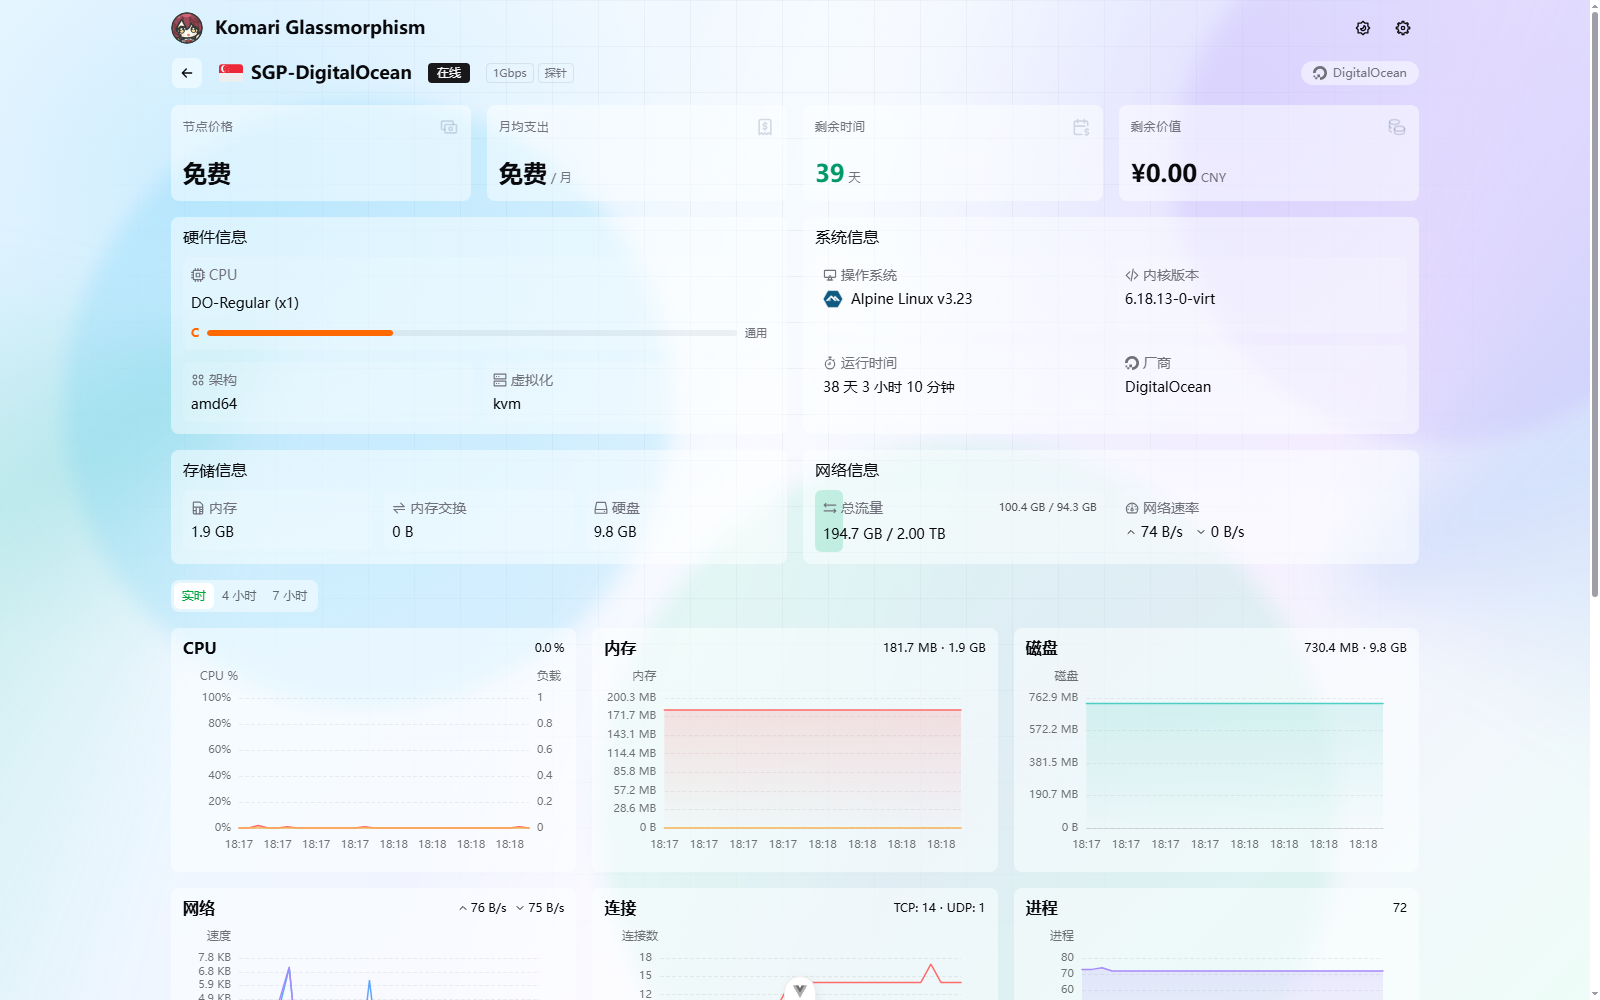
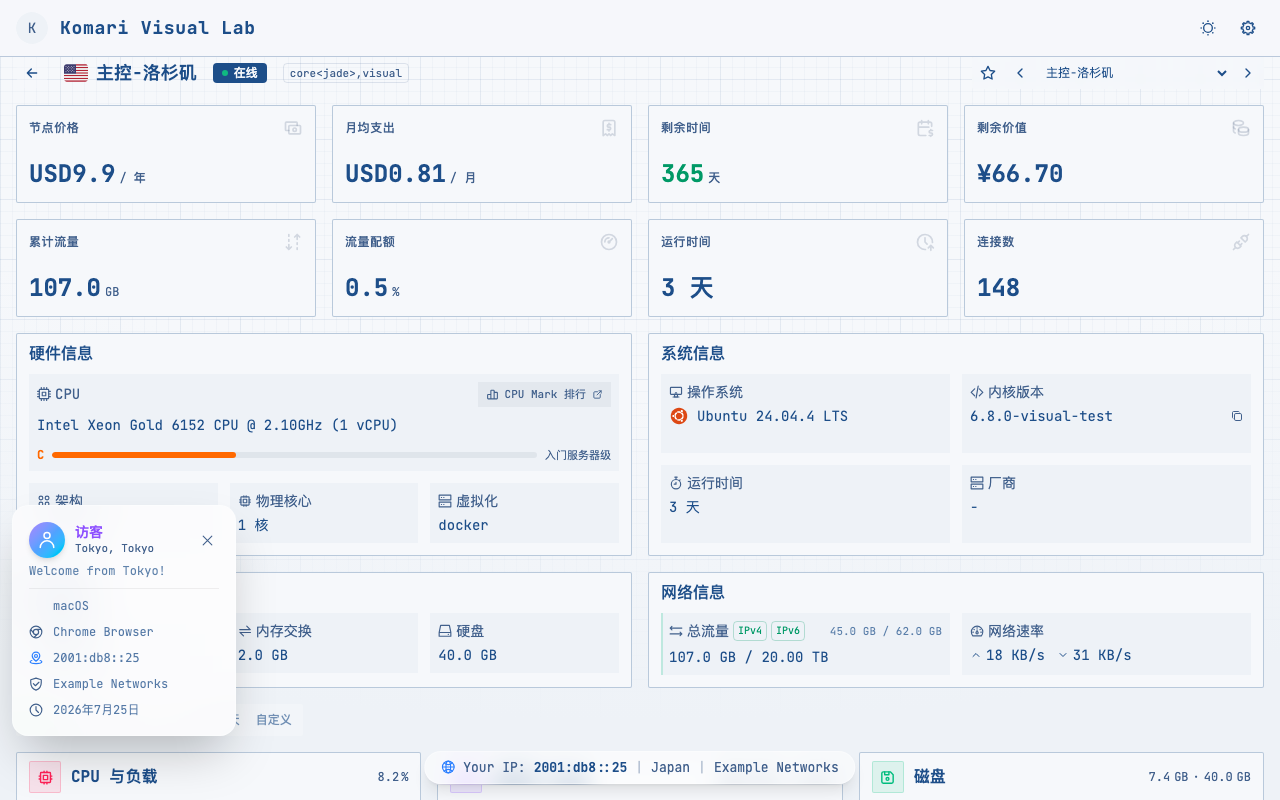
chore: 主题设置文案校准、清理月成本快捷控制死链、预览图更新为 blueprint 实拍

diff --git a/src/views/HomeView.vue b/src/views/HomeView.vue
@@ -25,7 +25,6 @@ import {
   isHighLoadNode,
 } from '@/utils/nodeMetricsHelper'
 import { isNodeMatchSearch } from '@/utils/nodeSearch'
-import { isFreeNode } from '@/utils/tagHelper'
 
 interface QuickControlOption {
   key: HomeQuickControlKey
@@ -95,7 +94,6 @@ const homeToolPermissionMap: Record<PrivateHomeToolKey, PermissionKey> = {
 
 const quickControlDefinitions: Record<HomeQuickControlKey, QuickControlOption> = {
   favorite: { key: 'favorite', label: '收藏', icon: 'tabler:star' },
-  monthlyCost: { key: 'monthlyCost', label: '月成本', icon: 'tabler:calendar-dollar' },
   totalTraffic: { key: 'totalTraffic', label: '总流量', icon: 'tabler:database' },
   upload: { key: 'upload', label: '上行', icon: 'tabler:chevron-up' },
   download: { key: 'download', label: '下行', icon: 'tabler:chevron-down' },
@@ -133,7 +131,7 @@ const groups = computed(() => [
   ...nodesStore.groups.map(g => ({ tab: g, name: g })),
 ])
 
-const quickControlKeys = computed<HomeQuickControlKey[]>(() => appStore.homeQuickControlOrder.filter(key => key !== 'monthlyCost'))
+const quickControlKeys = computed<HomeQuickControlKey[]>(() => appStore.homeQuickControlOrder)
 const quickControls = computed(() => quickControlKeys.value.map(key => quickControlDefinitions[key]))
 const showQuickControls = computed(() => appStore.homeQuickControlsEnabled && quickControls.value.length > 0)
 
@@ -168,13 +166,6 @@ watch(
   { immediate: true },
 )
 
-function getNodeMonthlyCostCNY(node: NodeData): number {
-  if (excludeFreeNodes.value && isFreeNode(node))
-    return 0
-
-  return financeHelper.calculateMonthlyCostCNY(node, exchangeRates.value)
-}
-
 function sortNodesByComputedValue(nodes: NodeData[], selector: (node: NodeData) => number): NodeData[] {
   return nodes
     .map(node => ({ node, value: selector(node) }))
@@ -199,9 +190,6 @@ function getQuickControlNodes(nodes: NodeData[], control: HomeQuickControlKey | 
   switch (control) {
     case 'favorite':
       return nodes.filter(node => appStore.isFavoriteNode(node.uuid))
-    case 'monthlyCost':
-      result = sortNodesByComputedValue(nodes, getNodeMonthlyCostCNY)
-      break
     case 'totalTraffic':
       result = sortNodesByComputedValue(nodes, getTotalTraffic)
       break

diff --git a/src/stores/app.ts b/src/stores/app.ts
@@ -43,7 +43,6 @@ export type GeneralCardKey
 
 export type HomeQuickControlKey
   = | 'favorite'
-    | 'monthlyCost'
     | 'totalTraffic'
     | 'upload'
     | 'download'
@@ -215,7 +214,6 @@ const LEGACY_GENERAL_CARD_SETTING_KEYS: Partial<Record<GeneralCardKey, string>> 
 
 const DEFAULT_HOME_QUICK_CONTROL_ORDER: HomeQuickControlKey[] = [
   'favorite',
-  'monthlyCost',
   'totalTraffic',
   'peak',
   'offline',
@@ -339,9 +337,9 @@ const GENERAL_CARD_PRESETS: Record<GeneralCardPreset, GeneralCardKey[]> = {
 }
 
 const HOME_QUICK_CONTROL_PRESETS: Record<HomeQuickControlPreset, HomeQuickControlKey[]> = {
-  basic: ['favorite', 'monthlyCost', 'peak', 'offline'],
+  basic: ['favorite', 'peak', 'offline'],
   traffic: ['favorite', 'totalTraffic', 'peak'],
-  ops: ['favorite', 'monthlyCost', 'offline', 'highLoad', 'expiring'],
+  ops: ['favorite', 'offline', 'highLoad', 'expiring'],
   full: DEFAULT_HOME_QUICK_CONTROL_ORDER,
   custom: DEFAULT_HOME_QUICK_CONTROL_ORDER,
 }

diff --git a/README.md b/README.md
@@ -35,7 +35,7 @@
 
 | 项目     | 说明                                                                    |
 | :------- | :---------------------------------------------------------------------- |
-| 当前版本 | **v0.0.18**                                                             |
+| 当前版本 | **v0.0.19**                                                             |
 | 主题定位 | Komari Monitor 可导入 zip 主题，不是普通 Web App 部署包                 |
 | 视觉风格 | 工程图纸（白图 / 晒图蓝）、等宽字体、浅色 / 深色 / 北京时间自动日夜模式 |
 | 数据能力 | Metric Store 优先，旧接口自动 fallback，兼容 Komari 1.2.x               |
